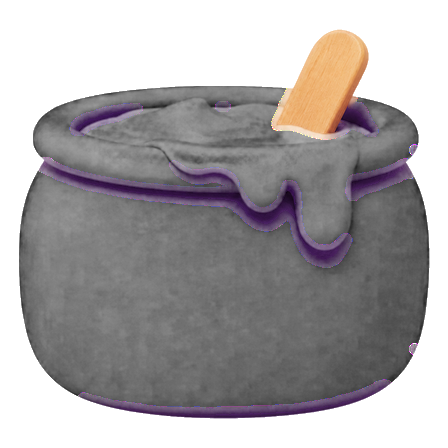
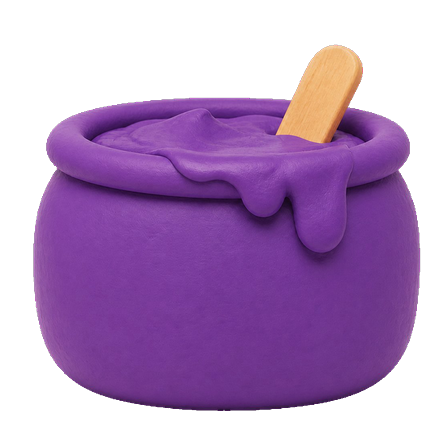
refactor(styles): 提取颜色与阴影 token
统一页面、组件样式中的硬编码颜色和阴影，新增 `--night-strong` 与 `--shadow-clay-praise` 变量，提升主题一致性。

diff --git a/docs/design/h5/css/tokens.css b/docs/design/h5/css/tokens.css
@@ -9,6 +9,7 @@
   --sky-top: #dcefdc; /* 日间天空上沿（与 meadow 同族） */
   --sky-mid: #e3f2dc; /* 日间天空中段 */
   --night-top: #5e6e91; /* 夜景天空/页顶 */
+  --night-strong: #3a426e; /* 夜景强调字色（星数等） */
   --btn-green-solid: #77b07c; /* 绿钮实色底（渐变下沿） */
   --tone-leaf: linear-gradient(145deg, #f7f9e9, #e6efd6); /* 叶绿钮面：回首页、日间星条 */
   --tone-leaf-solid: #eef3e2; /* 叶绿实色底 */
@@ -76,6 +77,12 @@
     var(--shadow-clay-hi),
     var(--shadow-clay-lo),
     var(--shadow-lift);
+  --shadow-clay-praise: /* 表扬弹层：加厚鼓边 + 柔和外托，强化鹅卵石感 */
+    inset 10px 9px 20px rgba(255, 255, 255, 0.18),
+    inset -12px -14px 28px rgba(198, 182, 146, 0.3),
+    0 10px 18px rgba(96, 122, 96, 0.14),
+    0 24px 44px rgba(96, 122, 96, 0.16),
+    0 44px 80px rgba(96, 122, 96, 0.1);
   --shadow-clay-leaf: /* 浅绿黏土（回首页钮、日间星条） */
     var(--shadow-clay-hi),
     inset -8px -10px 18px rgba(112, 145, 91, 0.22),

diff --git a/docs/design/h5/css/pages.css b/docs/design/h5/css/pages.css
@@ -623,7 +623,7 @@ body:has(.preview-deck) {
   background: var(--tone-leaf-night);
   box-shadow: var(--shadow-clay-night);
 }
-.page.is-night .star-pill b { color: #3a426e; }
+.page.is-night .star-pill b { color: var(--night-strong); }
 .page.is-night .capsule-slot {
   border-color: rgba(220, 226, 250, 0.42);
   background: rgba(24, 32, 64, 0.28);
@@ -692,7 +692,7 @@ body:has(.preview-deck) {
   gap: var(--gap-text);
   font-size: var(--font-hint);
   font-weight: 700;
-  color: #b78245;
+  color: var(--note);
 }
 .task-reward img {
   width: var(--size-star);
@@ -736,7 +736,7 @@ body:has(.preview-deck) {
   justify-content: center;
   gap: var(--gap-snug);
   min-height: var(--size-star);
-  color: #9b7646;
+  color: var(--note);
 }
 .sticker-card .chip.is-compact {
   align-self: stretch;

diff --git a/docs/design/h5/css/blocks.css b/docs/design/h5/css/blocks.css
@@ -447,16 +447,16 @@ a.block:active,
   overflow: hidden;
   text-align: center;
   background: var(--tone-cream);
-  box-shadow: var(--shadow-clay);
+  box-shadow: var(--shadow-clay-praise);
 }
 .praise-sun__card.is-soft-fail {
   background: var(--tone-soft-fail);
 }
 .praise-sun__card.is-soft-fail .praise-sun__text {
-  color: #b78245;
+  color: var(--note);
 }
 .praise-sun__card.is-exchange {
-  background: linear-gradient(180deg, #fff7fb 0%, #fae8ef 100%);
+  background: var(--tone-rose);
 }
 .praise-sun__card.is-exchange .praise-sun__text {
   color: #7a4f63;
